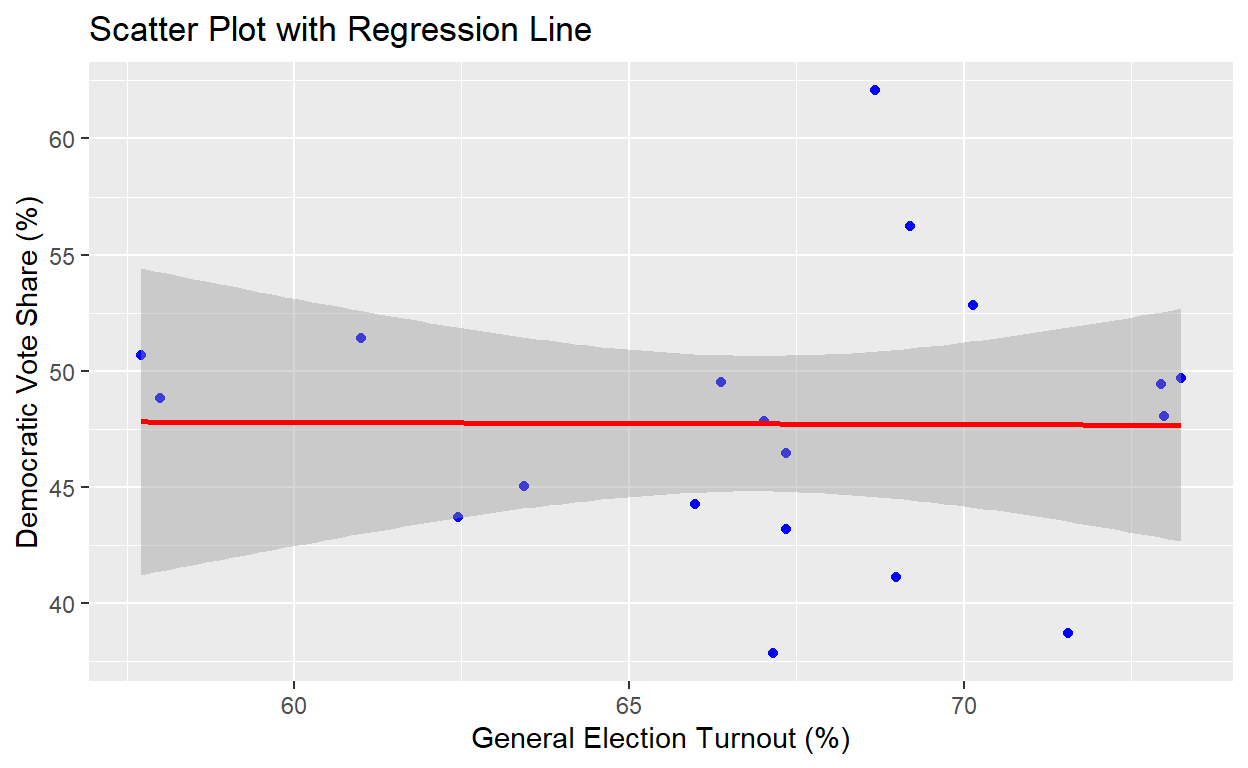
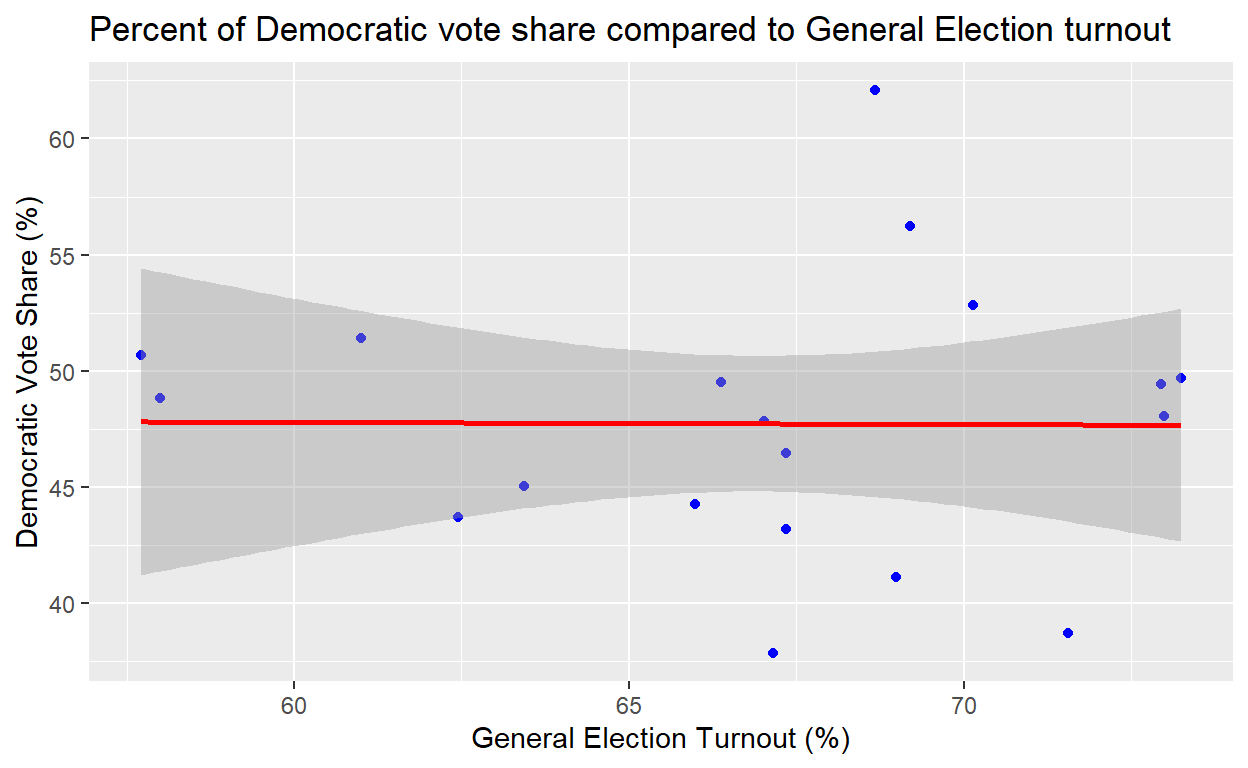
12/10 1.2

Changed region(s): [[0.0625, 0.0, 0.9375, 0.0625]]

diff --git a/index.html b/index.html
@@ -1569,8 +1569,7 @@ code span.wa { color: #5e5e5e; font-style: italic; } /* Warning */
 <span>  <span class='fu'><a href='https://ggplot2.tidyverse.org/reference/geom_bar.html'>geom_bar</a></span><span class='op'>(</span>stat <span class='op'>=</span> <span class='st'>"identity"</span><span class='op'>)</span> <span class='op'>+</span></span>
 <span>  <span class='fu'><a href='https://ggplot2.tidyverse.org/reference/labs.html'>labs</a></span><span class='op'>(</span></span>
 <span>    title <span class='op'>=</span> <span class='st'>"General Election Turnout in Wisconsin in Presidential Election Years"</span>,</span>
-<span>    subtitle  <span class='op'>=</span> <span class='st'>"The percent of voter turnout in Wisconsin compared to the party candidate </span></span>
-<span><span class='st'>that won the state"</span>,</span>
+<span>    subtitle  <span class='op'>=</span> <span class='st'>"% of voter turnout in WI compared to the party candidate that won the state"</span>,</span>
 <span>    x <span class='op'>=</span> <span class='st'>"Year"</span>,</span>
 <span>    y <span class='op'>=</span> <span class='st'>"Turnout (%)"</span>,</span>
 <span>    caption <span class='op'>=</span> <span class='st'>"Source: Wisconsin Elections Commision"</span></span>
@@ -1620,9 +1619,10 @@ code span.wa { color: #5e5e5e; font-style: italic; } /* Warning */
 <span>  <span class='fu'><a href='https://ggplot2.tidyverse.org/reference/geom_point.html'>geom_point</a></span><span class='op'>(</span>color <span class='op'>=</span> <span class='st'>"blue"</span><span class='op'>)</span> <span class='op'>+</span></span>
 <span>  <span class='fu'><a href='https://ggplot2.tidyverse.org/reference/geom_smooth.html'>geom_smooth</a></span><span class='op'>(</span>method <span class='op'>=</span> <span class='st'>"lm"</span>, color <span class='op'>=</span> <span class='st'>"red"</span>, se <span class='op'>=</span> <span class='cn'>TRUE</span><span class='op'>)</span> <span class='op'>+</span></span>
 <span>  <span class='fu'><a href='https://ggplot2.tidyverse.org/reference/labs.html'>labs</a></span><span class='op'>(</span></span>
-<span>    title <span class='op'>=</span> <span class='st'>"Scatter Plot with Regression Line"</span>,</span>
+<span>    title <span class='op'>=</span> <span class='st'>"Percent of Democratic vote share compared to General Election turnout"</span>,</span>
 <span>    x <span class='op'>=</span> <span class='st'>"General Election Turnout (%)"</span>,</span>
 <span>    y <span class='op'>=</span> <span class='st'>"Democratic Vote Share (%)"</span><span class='op'>)</span></span>
+<span>    </span>
 <span><span class='fu'><a href='https://rdrr.io/r/base/print.html'>print</a></span><span class='op'>(</span><span class='va'>regression_table</span><span class='op'>)</span></span></code></pre>
 </div>
 <pre><code>
